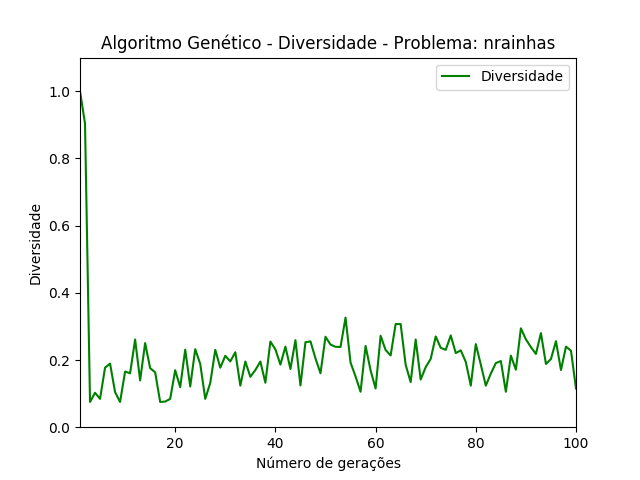
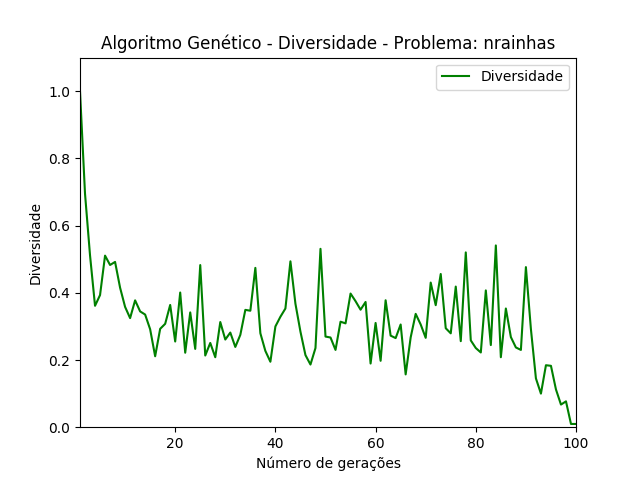
nqueens with weight

Changed region(s): [[0.125, 0.2188, 0.9062, 0.875]]

diff --git a/GA/genetic_algorith.py b/GA/genetic_algorith.py
@@ -143,7 +143,9 @@ def fitness_calc():
                 laux.append([j,population[i][j]])
             for j in range(chromoPopulation):
                 diag = diagonal_find(laux,j)
+                pw = position_weight(laux,j)
                 aux += chromoPopulation - 1 - diag
+                aux *= pw
             l.append(aux)
     return l
 
@@ -152,6 +154,13 @@ def diagonal_find(p,c):
     for i in range(chromoPopulation):
             if abs(p[c][0] - p[i][0]) == abs(p[c][1] - p[i][1]) and c != i:
                 x += 1
+    return x
+
+def position_weight(p,c):
+    if p[c][1] % 2 == 0:
+        x = p[c][0]
+    else:
+        x = abs(p[c][0] - chromoPopulation)
     return x
 
 def bin_population_calc(ilPopulation,slPopulation,precisionPopulation):
@@ -592,9 +601,9 @@ for gen in range(generationsPopulation):
     population = elitism_act(population,bestPopulation)
     fitnessList.append(fitness)
 averageFitness,bestFitness = find_fitness(fitnessList,nPopulation)
-# print("Melhor solução: ",population[fitness.index(bestFitness[generationsPopulation-1])])
-print(fitness)
-print(population)
+print("Melhor solução: ",population[fitness.index(bestFitness[generationsPopulation-1])])
+# print(fitness)
+# print(population)
 diversityList = diversity_standarlization(diversityList)
 averageFitness,bestFitness = fitness_standarlization(averageFitness,bestFitness)
 plotDiversity(problem,diversityList)
